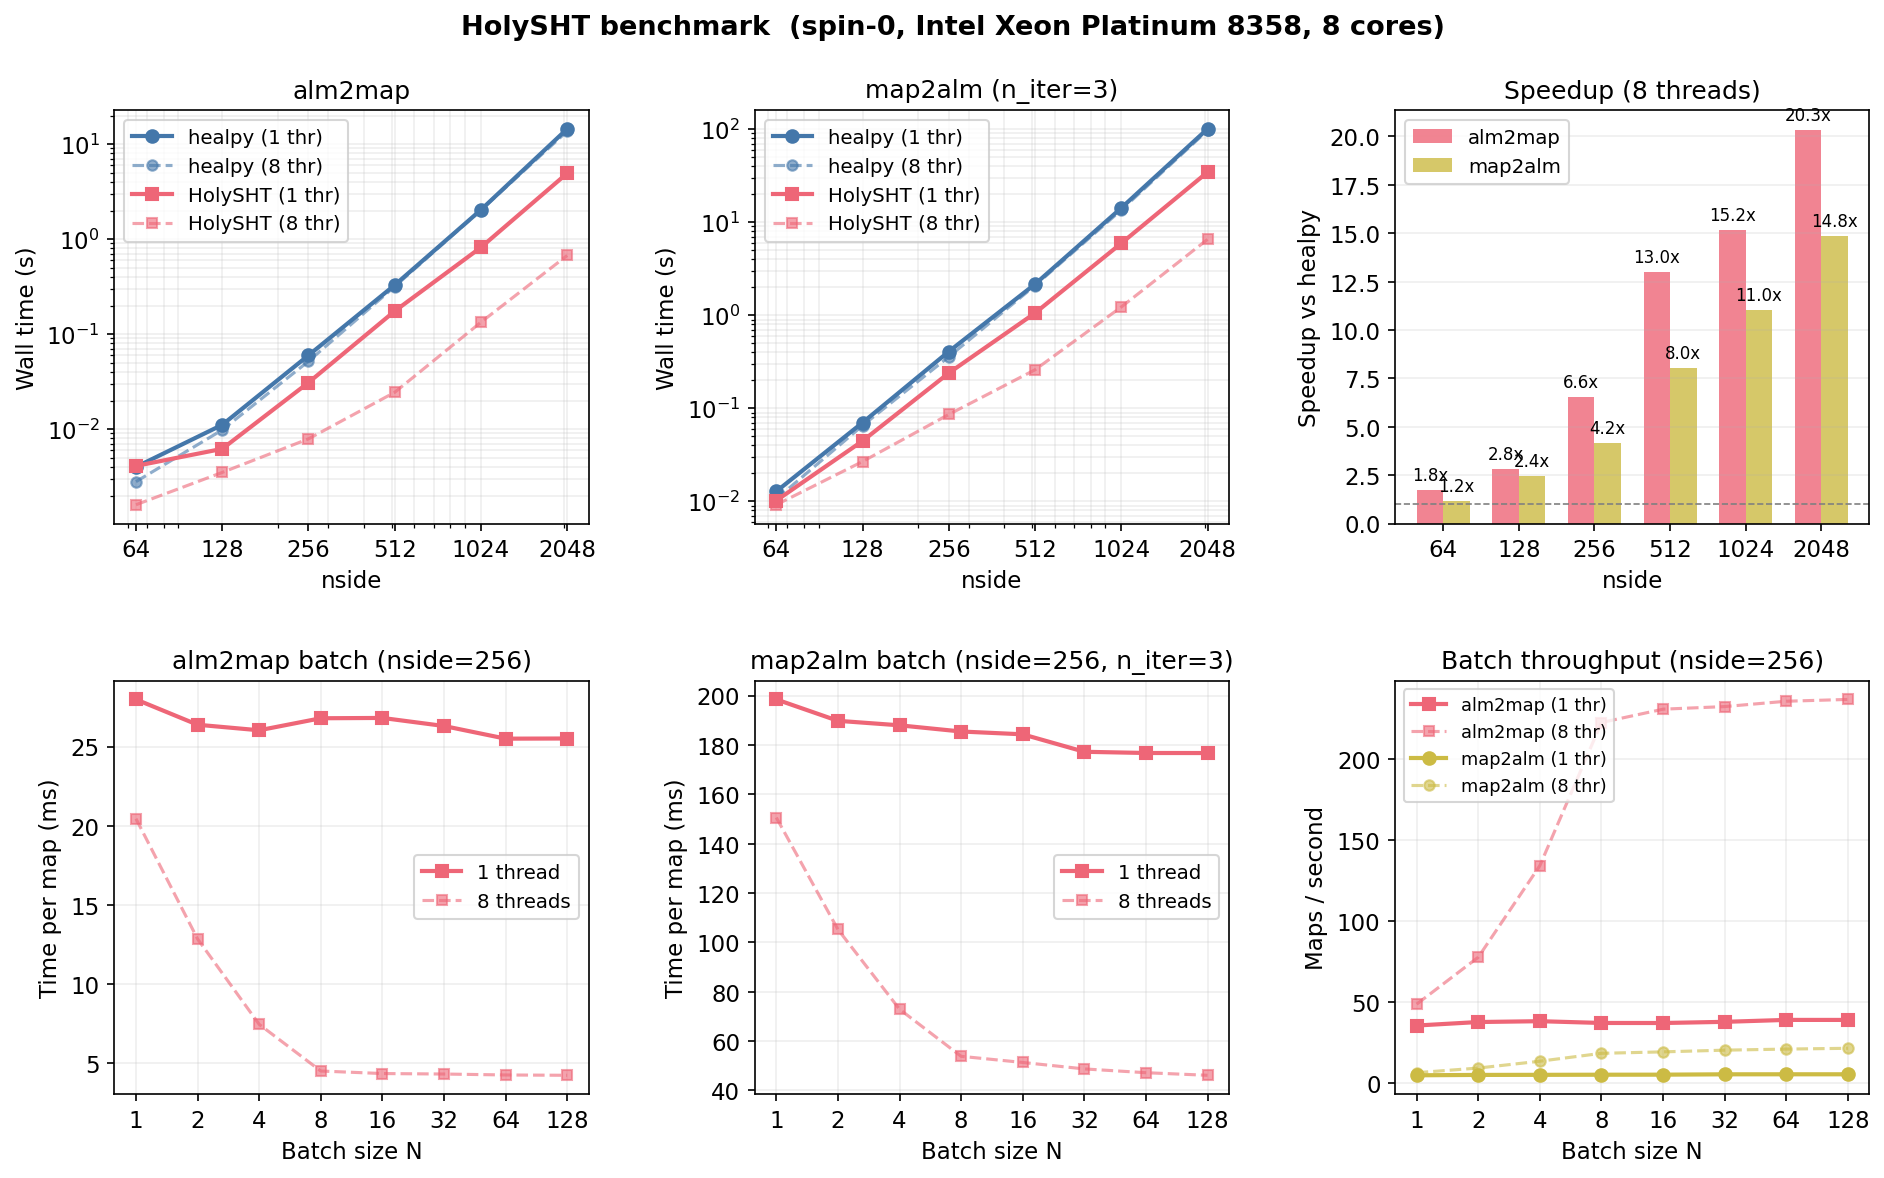
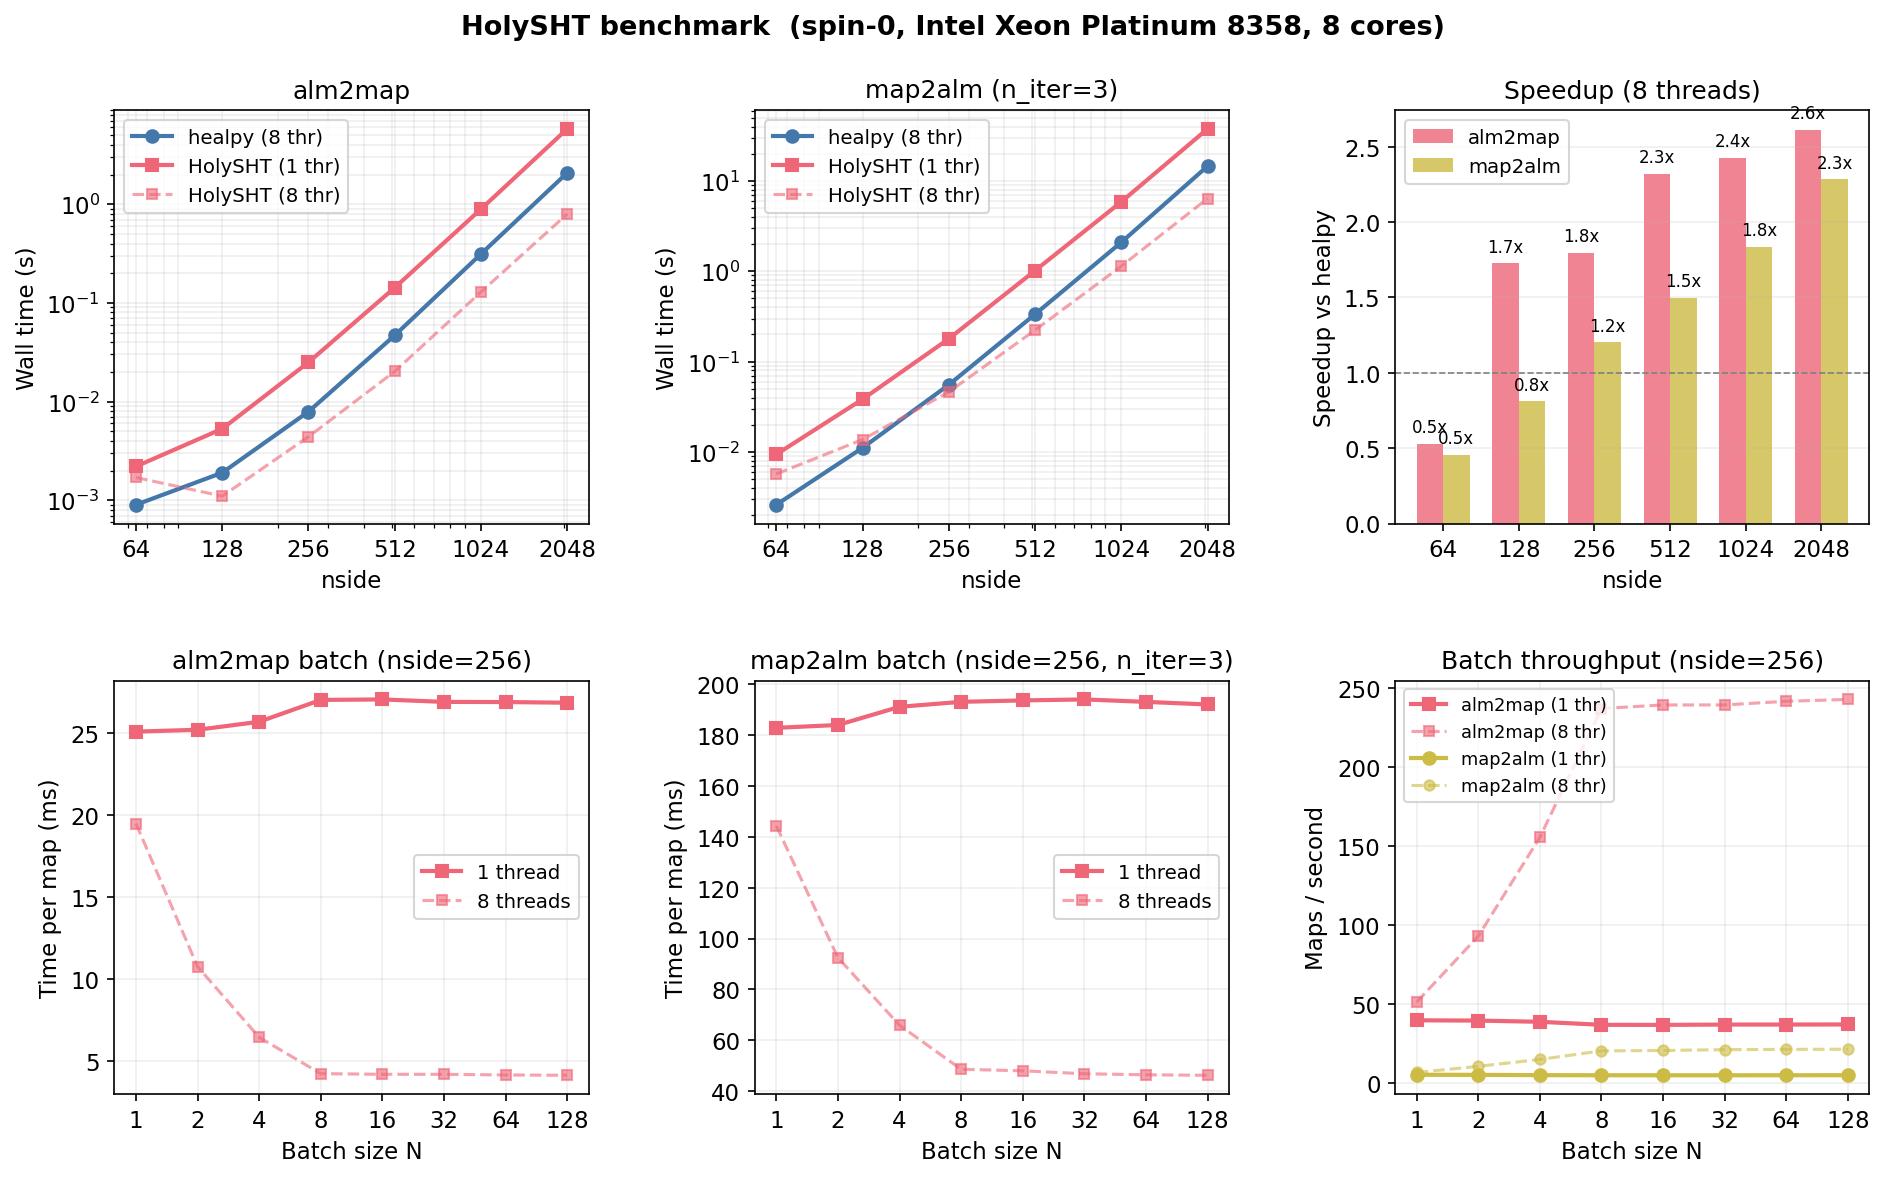
Update benchmarks with OMP_NUM_THREADS=8 for fair healpy comparison
Both libraries now use 8 threads. HolySHT is 1.7-2.6x faster than
healpy across nside values, with the advantage growing at higher
resolution.

diff --git a/python/make_readme_plot.py b/python/make_readme_plot.py
@@ -7,29 +7,31 @@ import matplotlib.pyplot as plt
 import matplotlib.ticker as ticker
 
 # --- Data from benchmark runs (Intel Xeon Platinum 8358, 8 cores) ---
+# OMP_NUM_THREADS=8 so both healpy and HolySHT can use all cores.
+# healpy always uses 8 threads (no per-call control); HolySHT accepts nthreads.
 
 nsides = [64, 128, 256, 512, 1024, 2048]
 
-# Single-threaded
-hp_a2m_1t  = [0.0040, 0.0111, 0.0598, 0.3285,  2.0354, 14.4786]
-hs_a2m_1t  = [0.0041, 0.0062, 0.0309, 0.1747,  0.8195,  4.9374]
-hp_m2a_1t  = [0.0128, 0.0702, 0.4080, 2.1604, 14.2342, 100.7568]
-hs_m2a_1t  = [0.0102, 0.0446, 0.2394, 1.0569,  5.9377, 34.5346]
+# healpy (always 8 threads via OMP_NUM_THREADS=8)
+hp_a2m  = [0.0009, 0.0019, 0.0079, 0.0469,  0.3132,  2.0805]
+hp_m2a  = [0.0026, 0.0111, 0.0554, 0.3346,  2.0949, 14.6122]
 
-# 8-threaded
-hp_a2m_8t  = [0.0028, 0.0098, 0.0518, 0.3168,  2.0222, 13.6937]
-hs_a2m_8t  = [0.0016, 0.0035, 0.0079, 0.0244,  0.1334,  0.6731]
-hp_m2a_8t  = [0.0106, 0.0653, 0.3581, 2.0887, 13.5289, 97.0095]
-hs_m2a_8t  = [0.0092, 0.0268, 0.0859, 0.2596,  1.2271,  6.5380]
+# HolySHT single-threaded
+hs_a2m_1t  = [0.0022, 0.0053, 0.0250, 0.1427,  0.8930,  5.8083]
+hs_m2a_1t  = [0.0094, 0.0383, 0.1791, 1.0187,  5.8839, 37.8003]
+
+# HolySHT 8-threaded
+hs_a2m_8t  = [0.0017, 0.0011, 0.0044, 0.0202,  0.1291,  0.7965]
+hs_m2a_8t  = [0.0057, 0.0137, 0.0461, 0.2233,  1.1404,  6.4013]
 
 # Batch scaling (nside=256, 1 thread)
 batch_N        = [1, 2, 4, 8, 16, 32, 64, 128]
-b_a2m_per_1t   = [0.02798, 0.02638, 0.02603, 0.02679, 0.02681, 0.02630, 0.02550, 0.02551]
-b_m2a_per_1t   = [0.19844, 0.18977, 0.18795, 0.18544, 0.18430, 0.17722, 0.17673, 0.17671]
+b_a2m_per_1t   = [0.02506, 0.02517, 0.02566, 0.02699, 0.02702, 0.02687, 0.02686, 0.02682]
+b_m2a_per_1t   = [0.18284, 0.18396, 0.19111, 0.19307, 0.19362, 0.19401, 0.19305, 0.19203]
 
 # Batch scaling (nside=256, 8 threads)
-b_a2m_per_8t   = [0.02044, 0.01284, 0.00744, 0.00449, 0.00433, 0.00430, 0.00424, 0.00422]
-b_m2a_per_8t   = [0.15055, 0.10522, 0.07287, 0.05378, 0.05129, 0.04867, 0.04714, 0.04609]
+b_a2m_per_8t   = [0.01945, 0.01074, 0.00643, 0.00422, 0.00418, 0.00418, 0.00414, 0.00412]
+b_m2a_per_8t   = [0.14430, 0.09247, 0.06589, 0.04859, 0.04800, 0.04683, 0.04642, 0.04623]
 
 # --- Styling ---
 
@@ -54,8 +56,7 @@ gs = fig.add_gridspec(2, 3, hspace=0.38, wspace=0.35,
 
 # -- alm2map --
 ax1 = fig.add_subplot(gs[0, 0])
-ax1.loglog(nsides, hp_a2m_1t, 'o-',  color=C_HP, label='healpy (1 thr)', lw=2, ms=6)
-ax1.loglog(nsides, hp_a2m_8t, 'o--', color=C_HP, label='healpy (8 thr)', lw=1.5, ms=5, alpha=0.6)
+ax1.loglog(nsides, hp_a2m,    'o-',  color=C_HP, label='healpy (8 thr)', lw=2, ms=6)
 ax1.loglog(nsides, hs_a2m_1t, 's-',  color=C_HS, label='HolySHT (1 thr)', lw=2, ms=6)
 ax1.loglog(nsides, hs_a2m_8t, 's--', color=C_HS, label='HolySHT (8 thr)', lw=1.5, ms=5, alpha=0.6)
 ax1.set_xlabel('nside')
@@ -68,8 +69,7 @@ ax1.xaxis.set_major_formatter(ticker.ScalarFormatter())
 
 # -- map2alm --
 ax2 = fig.add_subplot(gs[0, 1])
-ax2.loglog(nsides, hp_m2a_1t, 'o-',  color=C_HP, label='healpy (1 thr)', lw=2, ms=6)
-ax2.loglog(nsides, hp_m2a_8t, 'o--', color=C_HP, label='healpy (8 thr)', lw=1.5, ms=5, alpha=0.6)
+ax2.loglog(nsides, hp_m2a,    'o-',  color=C_HP, label='healpy (8 thr)', lw=2, ms=6)
 ax2.loglog(nsides, hs_m2a_1t, 's-',  color=C_HS, label='HolySHT (1 thr)', lw=2, ms=6)
 ax2.loglog(nsides, hs_m2a_8t, 's--', color=C_HS, label='HolySHT (8 thr)', lw=1.5, ms=5, alpha=0.6)
 ax2.set_xlabel('nside')
@@ -80,12 +80,12 @@ ax2.grid(True, alpha=0.2, which='both')
 ax2.set_xticks(nsides)
 ax2.xaxis.set_major_formatter(ticker.ScalarFormatter())
 
-# -- Speedup bar chart (8-threaded) --
+# -- Speedup bar chart (8 threads vs 8 threads) --
 ax3 = fig.add_subplot(gs[0, 2])
 x = np.arange(len(nsides))
 w = 0.35
-speedup_a2m = [h / s for h, s in zip(hp_a2m_8t, hs_a2m_8t)]
-speedup_m2a = [h / s for h, s in zip(hp_m2a_8t, hs_m2a_8t)]
+speedup_a2m = [h / s for h, s in zip(hp_a2m, hs_a2m_8t)]
+speedup_m2a = [h / s for h, s in zip(hp_m2a, hs_m2a_8t)]
 bars1 = ax3.bar(x - w/2, speedup_a2m, w, label='alm2map', color=C_BAR_A2M, alpha=0.8)
 bars2 = ax3.bar(x + w/2, speedup_m2a, w, label='map2alm', color=C_BAR_M2A, alpha=0.8)
 ax3.set_xticks(x)
@@ -98,11 +98,11 @@ ax3.legend(loc='upper left')
 ax3.grid(True, alpha=0.2, axis='y')
 for bar in bars1:
     h = bar.get_height()
-    ax3.text(bar.get_x() + bar.get_width()/2, h + 0.3,
+    ax3.text(bar.get_x() + bar.get_width()/2, h + 0.05,
              f'{h:.1f}x', ha='center', va='bottom', fontsize=8)
 for bar in bars2:
     h = bar.get_height()
-    ax3.text(bar.get_x() + bar.get_width()/2, h + 0.3,
+    ax3.text(bar.get_x() + bar.get_width()/2, h + 0.05,
              f'{h:.1f}x', ha='center', va='bottom', fontsize=8)
 
 # ====== Row 2: batch scaling ======

diff --git a/README.md b/README.md
@@ -453,12 +453,13 @@ HolySHT (Python) against healpy 1.19 for spin-0 transforms.
 
 ![Benchmark](benchmark.png)
 
-**Top row:** Single-threaded, HolySHT is 1.8--2.9x faster than healpy.
-With 8 threads the gap widens dramatically: at nside=2048, `alm2map`
-takes 0.67 s vs healpy's 13.7 s (**20x**) and `map2alm` takes 6.5 s
-vs 97.0 s (**15x**).  HolySHT automatically detects the number of
-available cores from the process CPU affinity, so multithreading works
-out of the box under SLURM even when `OMP_NUM_THREADS=1`.
+**Top row:** With both libraries using 8 threads, HolySHT is
+1.7--2.6x faster than healpy, with the advantage growing at higher
+resolution.  At nside=2048, `alm2map` takes 0.80 s vs healpy's
+2.08 s and `map2alm` takes 6.4 s vs 14.6 s.  HolySHT automatically
+detects the number of available cores from the process CPU affinity,
+so multithreading works out of the box under SLURM even when
+`OMP_NUM_THREADS` is not set.
 
 **Bottom row:** Batching multiple maps into a single call has no
 per-map overhead single-threaded.  With 8 threads, batching enables
